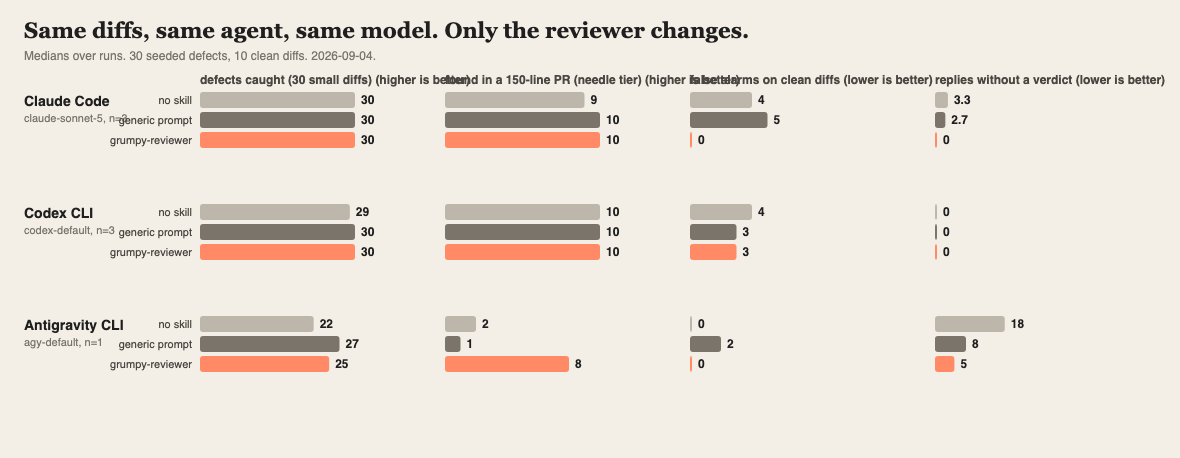
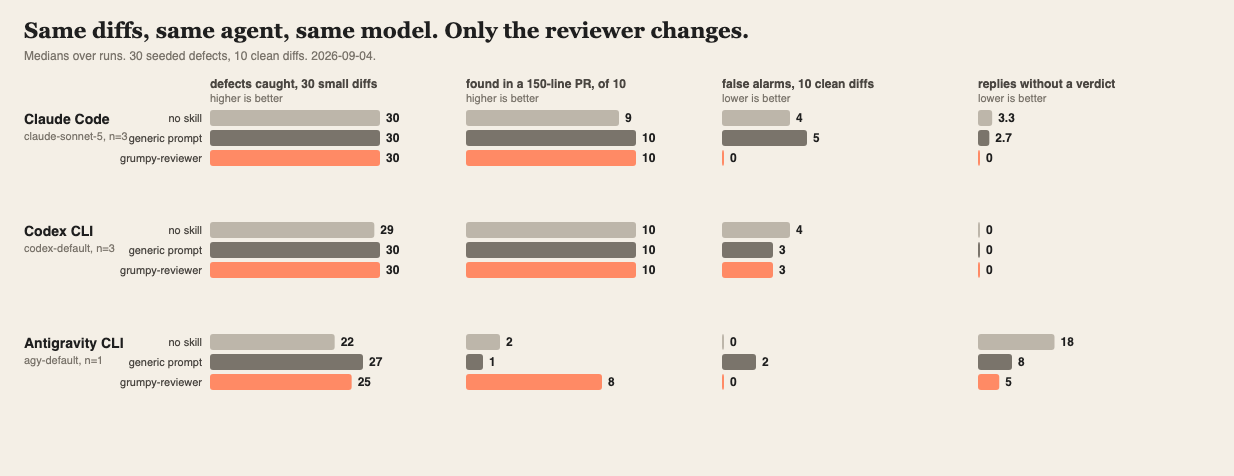
fix: verdict scope per write, refuse unreadable input in gate mode, per-repository mode, glob brace groups, unreviewed files never pass the Action gate; chart headers

diff --git a/docs/agent-portability.md b/docs/agent-portability.md
@@ -76,8 +76,8 @@ Hosts fall into two tiers:
 - **Gemini CLI** hooks live in `settings.json`, not in the extension. `examples/gemini-settings-hooks.json` shows the `BeforeAgent` and `BeforeTool` entries; the gate speaks Gemini's `decision`/`reason` dialect with `--host gemini`.
 - **OpenCode** plugins cannot see the transcript, so the gate is two-phase: in `gate` mode the first write to each file is refused with the checklist, the retry goes through. Verdicts are enforced by the conversation, not by the plugin.
 - **Cursor**, **Kiro**, and **Devin CLI** all document a pre-tool hook that can block. They are not shipped here because the input each one sends to the hook is not fully documented; they will be added when a maintainer can test them. Until then these hosts are instruction-only.
-- **Mode** is shared across all hosts: `GRUMPY_MODE`, then `~/.config/grumpy-reviewer/config.json`. On instruction hosts the mode is advisory; the agent honours it, nothing enforces it.
+- **Mode** is shared across all hosts: `GRUMPY_MODE`, then `.grumpy.json` in the repository (or a parent directory), then `~/.config/grumpy-reviewer/config.json`. On instruction hosts the mode is advisory; the agent honours it, nothing enforces it.
 
 ## The gate, in one paragraph
 
-On a `PreToolUse` event for `Edit`, `Write`, `MultiEdit`, `NotebookEdit`, `apply_patch`, or a `Bash` command containing `git commit`/`push`/`merge`/`rebase`, the gate reads the session transcript (when the host provides its path), finds the last `GRUMP:` block the agent printed since the user's last message, and decides: `BLOCK` denies in every mode; `REQUEST_CHANGES` denies only in `gate`; `APPROVE` and `OVERRIDE` allow; no verdict denies in `gate` (twice, then lets the write through with a note so a session can never brick) and allows with a reminder in `nag`. Every decision is appended to `~/.config/grumpy-reviewer/scorecard/<session>.jsonl`, which `/grumpy-scorecard` prints.
+On a `PreToolUse` event for `Edit`, `Write`, `MultiEdit`, `NotebookEdit`, `apply_patch`, or a `Bash` command containing `git commit`/`push`/`merge`/`rebase`, the gate reads the session transcript (when the host provides its path), finds the `GRUMP:` block that applies to this write (printed after the agent's previous tool call, or earlier in the turn and naming the file), and decides: `BLOCK` denies in every mode; `REQUEST_CHANGES` denies only in `gate`; `APPROVE` and `OVERRIDE` allow; no verdict denies in `gate` (twice, then lets the write through with a note so a session can never brick) and allows with a reminder in `nag`. Every decision is appended to `~/.config/grumpy-reviewer/scorecard/<session>.jsonl`, which `/grumpy-scorecard` prints.

diff --git a/README.md b/README.md
@@ -119,6 +119,8 @@ Thirty small, realistic diffs across Python, TypeScript, Go, and YAML (Kubernete
 
 <!-- bench:table:end -->
 
+IBM Bob is not in the table yet: `bob run` needs a `BOB_API_KEY`, which the benchmark machine did not have. With the key exported, `npm run bench -- --agents bob` adds the row.
+
 What the numbers say, plainly: on a 30-line diff, current models find the seeded defect with or without help. The value of a reviewer persona is not that it finds more; it is that it stops crying wolf on clean changes, always ends with a verdict a hook can act on, gets the severity right, and does it in fewer tokens and less time. A gate is only useful if it is both parseable and quiet on good code; those are the two columns that move.
 
 Method, per-diff table, limitations, the pilot run that led to one calibration pass, and every raw reply: [benchmarks/results](benchmarks/results). Reproduce: `npm run bench && npm run bench:report`. Add your own case: [CONTRIBUTING](CONTRIBUTING.md).
@@ -151,7 +153,9 @@ GRUMP: APPROVE | REQUEST_CHANGES | BLOCK
 
 **The gate.** On hosts with lifecycle hooks, a `PreToolUse` hook runs before `Edit`, `Write`, `MultiEdit`, and any `git commit` or `git push`. It reads the verdict the agent just printed and decides: `BLOCK` denies in every mode; `REQUEST_CHANGES` denies in `gate` mode; `APPROVE` goes through; no verdict means "review first" (denied in `gate`, a reminder in `nag`). Every decision is written to a per-session scorecard.
 
-**Modes.** `nag` (default) reviews and prints findings; writes proceed unless the verdict is `BLOCK`. `gate` denies writes until the verdict is `APPROVE`. `off` does nothing. Set it with `/grumpy gate`, persist it in `~/.config/grumpy-reviewer/config.json`, or override for one session with `GRUMPY_MODE=gate`.
+**Modes.** `nag` (default) reviews and prints findings; writes proceed unless the verdict is `BLOCK`. `gate` denies writes until the verdict is `APPROVE`. `off` does nothing. Set it with `/grumpy gate`, persist it for yourself in `~/.config/grumpy-reviewer/config.json`, pin it for a repository with a `.grumpy.json` at its root (`{"mode": "gate"}` wins over the user setting, so a team's gate never depends on a laptop), or override one session with `GRUMPY_MODE=gate`.
+
+**Scope.** A verdict covers one write: the gate accepts a verdict printed after the agent's previous tool call, or an earlier one in the same turn that names the file being written. A `Fine.` for file A never lets an unreviewed file B through.
 
 ## Install
 

diff --git a/docs/DECISIONS.md b/docs/DECISIONS.md
@@ -33,4 +33,5 @@ One line each, in the order they were made. Anything a reader might reasonably h
 29. The ruleset was calibrated once after a pilot benchmark run (kept in `benchmarks/results/pilot/`): a BLOCK no longer stops the checklist, `APPROVE` is named as the common verdict, five clean diffs were tightened to contain nothing outside their ticket, and five matchers were changed to stem form. Every Grump-arm call and every call on a changed diff was re-run; untouched records were kept.
 30. IBM Bob Shell hooks use Bob's own dialect (stdin `{event, session_id, tool, input}`, exit 2 blocks, PreToolUse stdout is not context), so the gate has a `--host bob` mode; the tool-name matcher comes from the names in Bob Shell 2.0.2's bundle because the docs list only an example. Headless Bob needs `BOB_API_KEY`, which the build machine did not have, so Bob is a benchmark agent that activates when the key is present and its output parsing is unverified.
 31. Every third-party action is pinned to a commit SHA with the tag in a comment; CodeQL and OpenSSF Scorecard run on every push.
-32. No other project's rules, prompts, hook code, benchmark code, or examples were read into this repository; every file is original, and the README avoids comparisons with other projects by design.
+32. After the Grump reviewed his own runtime (`benchmarks` style, full diff of `hooks/`, `action/`, `bin/`), four findings were fixed: a verdict now covers one write (fresh since the previous tool call, or naming the file); malformed or truncated hook input is refused in gate mode instead of allowed; a file the Action could not review counts as REQUEST_CHANGES so a provider outage cannot pass the gate; and `ignore` globs keep `{a,b}` groups intact. A fifth, machine-wide mode, became the per-repository `.grumpy.json` override.
+33. No other project's rules, prompts, hook code, benchmark code, or examples were read into this repository; every file is original, and the README avoids comparisons with other projects by design.

diff --git a/SECURITY.md b/SECURITY.md
@@ -10,7 +10,7 @@ What the Grump can and cannot do to you, so you can decide where to run him.
 
 | Surface | What it reads | What it writes | Network | Failure mode |
 |---|---|---|---|---|
-| Hook scripts (`hooks/`) | The tool call the host passes on stdin; the session transcript path the host provides | `~/.config/grumpy-reviewer/` (mode, per-session state, scorecard) | none | Any internal error exits 0 with no output: a broken reviewer never becomes a broken editor. A denied write is the only side effect, and `off` mode disables it. |
+| Hook scripts (`hooks/`) | The tool call the host passes on stdin; the session transcript path the host provides; a `.grumpy.json` in the repository | `~/.config/grumpy-reviewer/` (mode, per-session state, scorecard) | none | Any internal error exits 0 with no output in `nag`; in `gate`, unreadable input is refused rather than guessed. A denied write is the only side effect, and `off` mode disables it. |
 | Skills, rules, commands | Nothing; they are text the host injects | Nothing | none | Worst case is a worse review. They cannot run code. |
 | `grumpy` CLI | The working-tree or PR diff via `git`/`gh`; the Grump's ruleset | Nothing (`install` writes only the files it lists, never outside the current directory) | Only through the agent you already run (`claude`, `codex`, `agy`, `bob`) or the Messages API with your key | Refuses diffs over 400 KB; exits 2 on any read error. |
 | GitHub Action | The pull request diff through the GitHub API with the job's token | One review and its inline comments; updates them in place | The provider you chose, with your key, and `api.github.com` | On forks without secrets it posts one neutral note and exits 0. Every third-party action is pinned to a commit SHA. |

diff --git a/.bob/rules/grumpy.md b/.bob/rules/grumpy.md
@@ -65,7 +65,7 @@ GRUMP: REQUEST_CHANGES
 - `gate`: writes are denied on `REQUEST_CHANGES` or `BLOCK` until the findings are fixed and re-reviewed.
 - `off`: nothing is reviewed and nothing is injected.
 
-Resolution order: the `GRUMPY_MODE` environment variable, then `mode` in `~/.config/grumpy-reviewer/config.json`, then `nag`.
+Resolution order: the `GRUMPY_MODE` environment variable, then `mode` in a `.grumpy.json` at the repository root, then `mode` in `~/.config/grumpy-reviewer/config.json`, then `nag`.
 
 ## Self-review protocol
 

diff --git a/.bob/skills/grumpy-reviewer/SKILL.md b/.bob/skills/grumpy-reviewer/SKILL.md
@@ -70,7 +70,7 @@ GRUMP: REQUEST_CHANGES
 - `gate`: writes are denied on `REQUEST_CHANGES` or `BLOCK` until the findings are fixed and re-reviewed.
 - `off`: nothing is reviewed and nothing is injected.
 
-Resolution order: the `GRUMPY_MODE` environment variable, then `mode` in `~/.config/grumpy-reviewer/config.json`, then `nag`.
+Resolution order: the `GRUMPY_MODE` environment variable, then `mode` in a `.grumpy.json` at the repository root, then `mode` in `~/.config/grumpy-reviewer/config.json`, then `nag`.
 
 ## Self-review protocol
 

diff --git a/.clinerules/grumpy.md b/.clinerules/grumpy.md
@@ -65,7 +65,7 @@ GRUMP: REQUEST_CHANGES
 - `gate`: writes are denied on `REQUEST_CHANGES` or `BLOCK` until the findings are fixed and re-reviewed.
 - `off`: nothing is reviewed and nothing is injected.
 
-Resolution order: the `GRUMPY_MODE` environment variable, then `mode` in `~/.config/grumpy-reviewer/config.json`, then `nag`.
+Resolution order: the `GRUMPY_MODE` environment variable, then `mode` in a `.grumpy.json` at the repository root, then `mode` in `~/.config/grumpy-reviewer/config.json`, then `nag`.
 
 ## Self-review protocol
 

diff --git a/.github/copilot-instructions.md b/.github/copilot-instructions.md
@@ -65,7 +65,7 @@ GRUMP: REQUEST_CHANGES
 - `gate`: writes are denied on `REQUEST_CHANGES` or `BLOCK` until the findings are fixed and re-reviewed.
 - `off`: nothing is reviewed and nothing is injected.
 
-Resolution order: the `GRUMPY_MODE` environment variable, then `mode` in `~/.config/grumpy-reviewer/config.json`, then `nag`.
+Resolution order: the `GRUMPY_MODE` environment variable, then `mode` in a `.grumpy.json` at the repository root, then `mode` in `~/.config/grumpy-reviewer/config.json`, then `nag`.
 
 ## Self-review protocol
 

diff --git a/.kiro/steering/grumpy.md b/.kiro/steering/grumpy.md
@@ -69,7 +69,7 @@ GRUMP: REQUEST_CHANGES
 - `gate`: writes are denied on `REQUEST_CHANGES` or `BLOCK` until the findings are fixed and re-reviewed.
 - `off`: nothing is reviewed and nothing is injected.
 
-Resolution order: the `GRUMPY_MODE` environment variable, then `mode` in `~/.config/grumpy-reviewer/config.json`, then `nag`.
+Resolution order: the `GRUMPY_MODE` environment variable, then `mode` in a `.grumpy.json` at the repository root, then `mode` in `~/.config/grumpy-reviewer/config.json`, then `nag`.
 
 ## Self-review protocol
 

diff --git a/.openclaw/skills/grumpy-reviewer/SKILL.md b/.openclaw/skills/grumpy-reviewer/SKILL.md
@@ -76,7 +76,7 @@ GRUMP: REQUEST_CHANGES
 - `gate`: writes are denied on `REQUEST_CHANGES` or `BLOCK` until the findings are fixed and re-reviewed.
 - `off`: nothing is reviewed and nothing is injected.
 
-Resolution order: the `GRUMPY_MODE` environment variable, then `mode` in `~/.config/grumpy-reviewer/config.json`, then `nag`.
+Resolution order: the `GRUMPY_MODE` environment variable, then `mode` in a `.grumpy.json` at the repository root, then `mode` in `~/.config/grumpy-reviewer/config.json`, then `nag`.
 
 ## Self-review protocol
 

diff --git a/.qoder/rules/grumpy.md b/.qoder/rules/grumpy.md
@@ -70,7 +70,7 @@ GRUMP: REQUEST_CHANGES
 - `gate`: writes are denied on `REQUEST_CHANGES` or `BLOCK` until the findings are fixed and re-reviewed.
 - `off`: nothing is reviewed and nothing is injected.
 
-Resolution order: the `GRUMPY_MODE` environment variable, then `mode` in `~/.config/grumpy-reviewer/config.json`, then `nag`.
+Resolution order: the `GRUMPY_MODE` environment variable, then `mode` in a `.grumpy.json` at the repository root, then `mode` in `~/.config/grumpy-reviewer/config.json`, then `nag`.
 
 ## Self-review protocol
 

diff --git a/.windsurf/rules/grumpy.md b/.windsurf/rules/grumpy.md
@@ -70,7 +70,7 @@ GRUMP: REQUEST_CHANGES
 - `gate`: writes are denied on `REQUEST_CHANGES` or `BLOCK` until the findings are fixed and re-reviewed.
 - `off`: nothing is reviewed and nothing is injected.
 
-Resolution order: the `GRUMPY_MODE` environment variable, then `mode` in `~/.config/grumpy-reviewer/config.json`, then `nag`.
+Resolution order: the `GRUMPY_MODE` environment variable, then `mode` in a `.grumpy.json` at the repository root, then `mode` in `~/.config/grumpy-reviewer/config.json`, then `nag`.
 
 ## Self-review protocol
 
